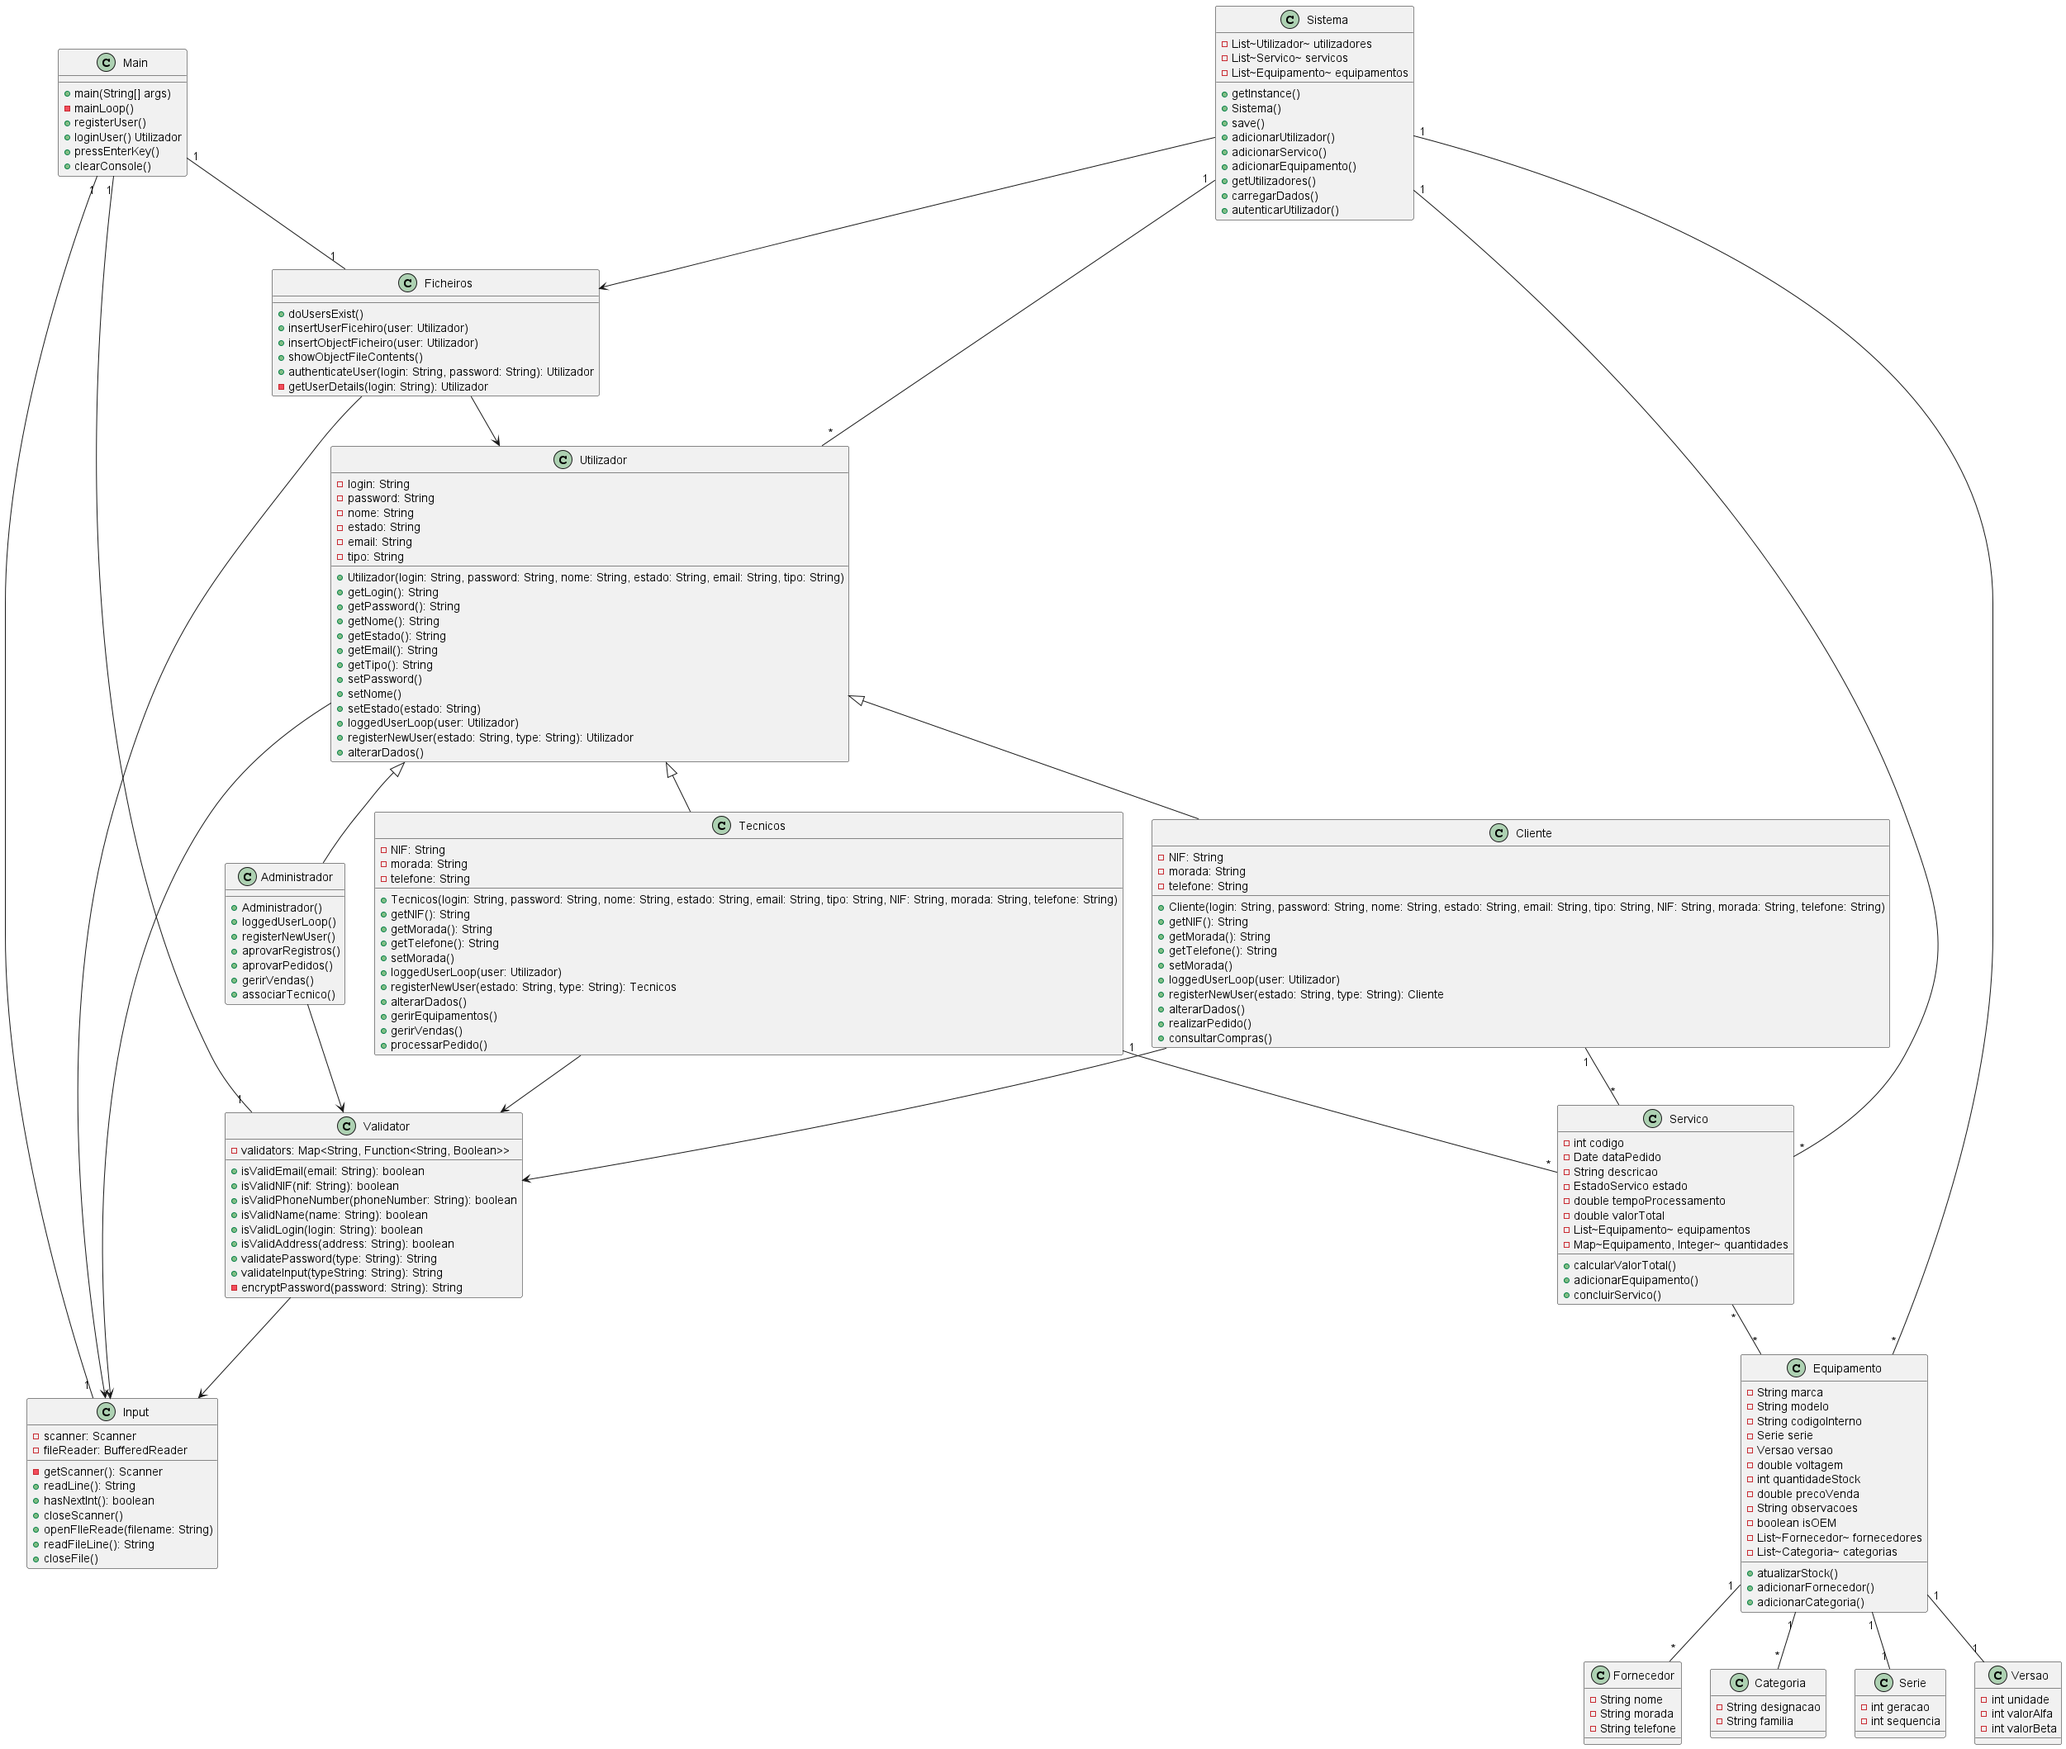
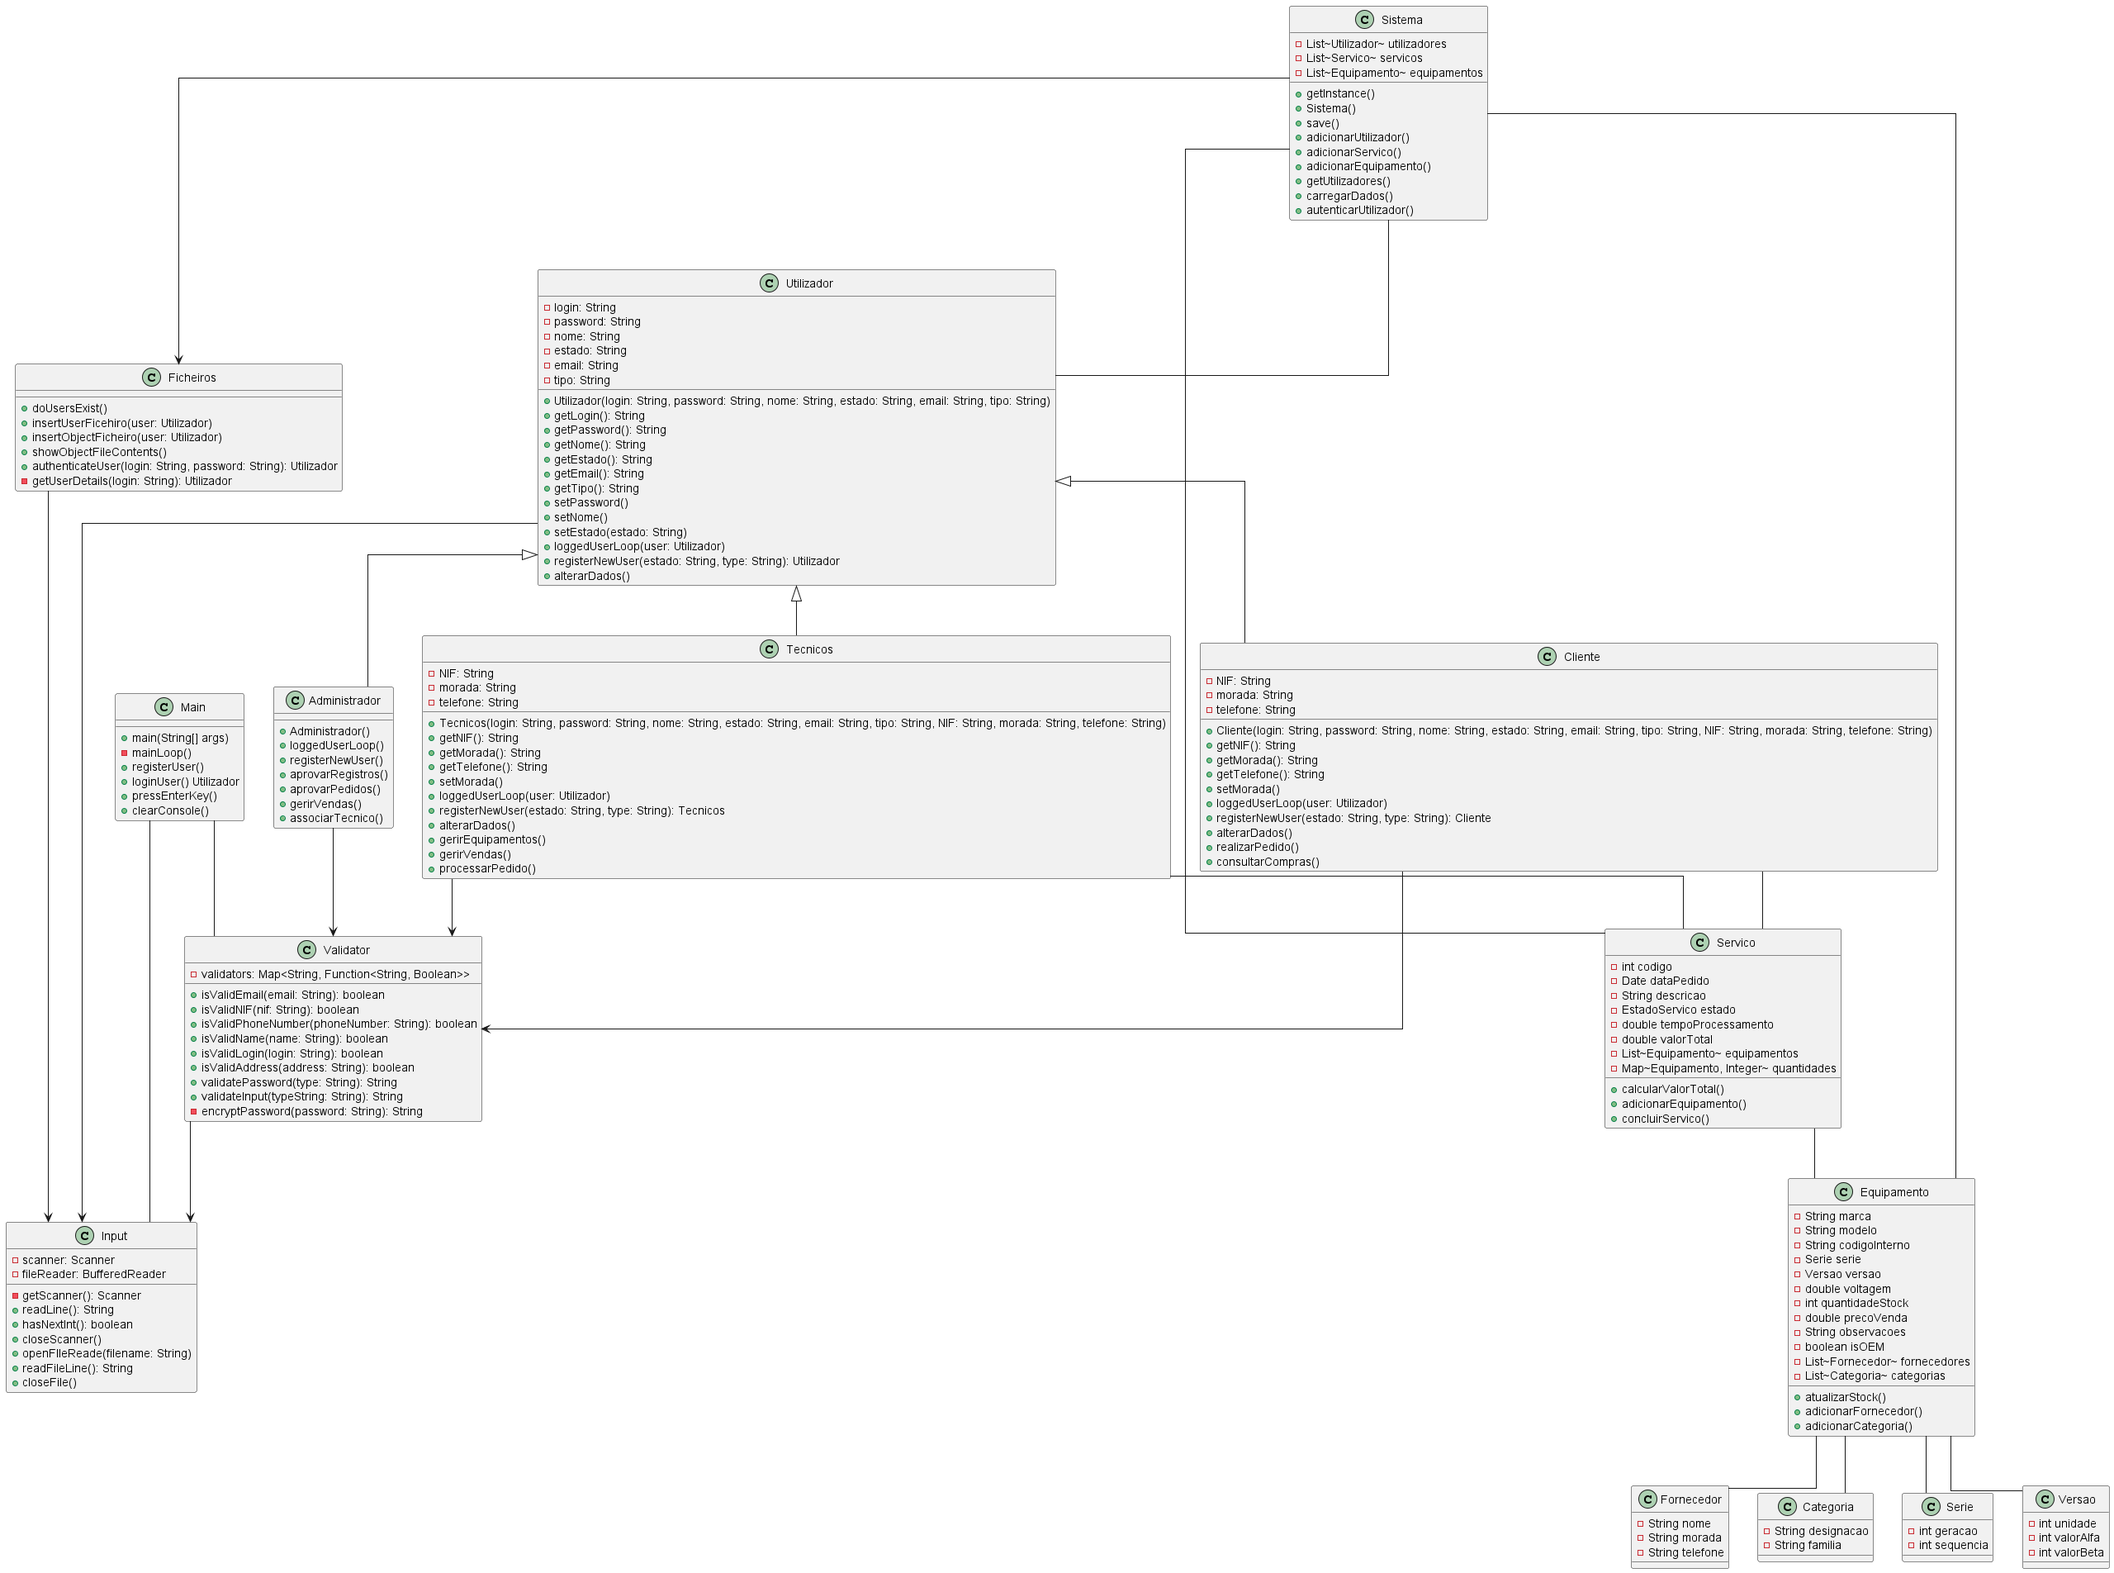
Atualizar README.md com requisitos e referências; ajustar diagrama de classes para melhor visualização das relações entre entidades.

diff --git a/README.md b/README.md
@@ -4,8 +4,8 @@ Neste  projecto, pretende-se a implementação  de uma aplicação completa  em 
 A aplicação tem como objectivo auxiliar o funcionamento de uma loja de informática na gestão de encomendas de equipamentos de hardware
 
 ## Descrição global da aplicação:
-- [] [R1] Permitir os utilizadores registarem-se e autenticarem-se na aplicação.
-- [] [R2] Permitir o acesso à aplicação por 3 tipos de utilizadores: administradores, técnicos e clientes.
+- [ ] [R1] Permitir os utilizadores registarem-se e autenticarem-se na aplicação.
+- [ ] [R2] Permitir o acesso à aplicação por 3 tipos de utilizadores: administradores, técnicos e clientes.
 - [x] [R3] Os utilizadores são caracterizados pelos atributos login, password, nome, estado (activo/inactivo), email e tipo (administradores, técnicos ou clientes).
 - [ ] [R4] Cada utilizador apenas pode alterar a sua própria informação, não podendo alterar ou visualizar dados de outros utilizadores, ou criar utilizadores.
 > [Note] mostrar ao utilizar a sua informação e pedir a informaçao que quer alterar.
@@ -35,32 +35,32 @@ contacto telefónico.
 - [ ] [R20] Um serviço de compra (encomenda), além de ter associado um técnico responsável, inclui a listagem dos produtos incluídos (equipamentos de hardware, podendo definir a quantidade), uma data de realização do pedido, uma descrição, o estado e o tempo que demorou a ser processado o valor total da venda.
 - [ ] [R21] Adicionalmente, cada serviço possui um código identificador único e sequencial.
 - [ ] [R22] O estado do serviço apresenta um dos seguintes valores:
-> [NOTE] a) se o serviço está *submetido* (cliente realizou o pedido, mas ainda não foi aceite pelo administrador); 
-- > b) se a serviço foi *aceite* (administrador aceita o serviço); 
+> [NOTE] a) se o serviço está *submetido* (cliente realizou o pedido, mas ainda não foi aceite pelo administrador);
+- > b) se a serviço foi *aceite* (administrador aceita o serviço);
 - > c) ou se já foi *concluído* (técnico responsável termina o processo).
-- [ ] [R23] Quando um técnico conclui um serviço deve indicar o tempo despendido no processamento do pedido.  
+- [ ] [R23] Quando um técnico conclui um serviço deve indicar o tempo despendido no processamento do pedido.
 O valor total da venda deve ser calculado automaticamente (somatório do custo dos vários equipamentos e respectivas quantidades).
-- [ ] [R25] O código de um equipamento deve ser único. 
+- [ ] [R25] O código de um equipamento deve ser único.
 - [ ] [R26] Cada  equipamento  deve  ter  associado  uma lista até 6 fornecedores, podendo ser introduzido um  novo fornecedor a qualquer momento.
-- [ ] [R27] Cada fornecedor é caracterizado por nome, morada e contacto telefónico. 
-- [ ] [R28] Cada  equipamento  deve  apresentar  uma  lista  até  4  categorias,  podendo  ser  introduzida  uma  nova categoria a qualquer momento.  
-- [ ] [R29] Cada categoria é caracterizada pela sua designação e família (atributos alfanuméricos). 
-- [ ] [R30] Cada série possui uma geração e sequência (atributos numéricos). 
-- [ ] [R31] Cada versão é caracterizada pela unidade, valor alfa e valor beta (atributos numéricos). 
+- [ ] [R27] Cada fornecedor é caracterizado por nome, morada e contacto telefónico.
+- [ ] [R28] Cada  equipamento  deve  apresentar  uma  lista  até  4  categorias,  podendo  ser  introduzida  uma  nova categoria a qualquer momento.
+- [ ] [R29] Cada categoria é caracterizada pela sua designação e família (atributos alfanuméricos).
+- [ ] [R30] Cada série possui uma geração e sequência (atributos numéricos).
+- [ ] [R31] Cada versão é caracterizada pela unidade, valor alfa e valor beta (atributos numéricos).
 - [ ] [R32] É possível alterar a quantidade em stock de um equipamento.
 - [ ] [R33] Sempre que um equipamento é vendido,a quantidade em stock deve ser actualizada.
 
 ## Listagem de Pesquisas
 - [ ] [R36] Deve ser possível ordenar utilizadores por ordem alfabética do nome.
 - [ ] [R37] Deve ser possível ordenar equipamentos por designação.
-- [ ] [R39] Deve ser possível listar todos os utilizadores. 
+- [ ] [R39] Deve ser possível listar todos os utilizadores.
 - [ ] [R40] Deve ser possível listar utilizadores por tipo.
-- [ ] [R41] Deve ser possível listar todos os serviços. 
-- [ ] [R42] Deve ser possível listar todos os serviços associados a um cliente. 
-- [ ] [R43] Deve ser possível listar todos os serviços por estado. 
-- [ ] [R44] Deve ser possível listar serviços com tempo despendido superior a um determinado limite (introduzido pelo utilizador no momento de pesquisa). 
-- [ ] [R45] Deve ser possível listar todos os equipamentos. 
-- [ ] [R46] Deve ser possível listar equipamentos que sejam (ou não) OEM. 
+- [ ] [R41] Deve ser possível listar todos os serviços.
+- [ ] [R42] Deve ser possível listar todos os serviços associados a um cliente.
+- [ ] [R43] Deve ser possível listar todos os serviços por estado.
+- [ ] [R44] Deve ser possível listar serviços com tempo despendido superior a um determinado limite (introduzido pelo utilizador no momento de pesquisa).
+- [ ] [R45] Deve ser possível listar todos os equipamentos.
+- [ ] [R46] Deve ser possível listar equipamentos que sejam (ou não) OEM.
 - [ ] [R47] Deve  ser  possível  listar  equipamentos  com  uma  quantidade  de  stock  abaixo  de  um  determinado  limite 
 (introduzido pelo utilizador no momento de pesquisa).
 - [ ] [R49] Deve ser possível pesquisar utilizadores por login ou nome.
@@ -75,25 +75,46 @@ O valor total da venda deve ser calculado automaticamente (somatório do custo d
 - [ ] [R56] Os administradores podem listar e pesquisar todos os serviços.
 
 ## Manipulação e armazenamento de dados persistente
-- [ ] [R57] O  acesso  à  aplicação  deve  ser  restringido  com  credenciais  (login/password),  informação  que  deverá ser armazenada num ficheiro de texto “credenciais_acesso.txt”. 
-- [ ] [R58] Durante  o encerramento da aplicação, os dados devem ser  automaticamente guardados num ficheiro de objectos “dados_apl.dat”. 
-- [ ] [R59] A aplicação, no arranque, deve automaticamente ler os dados do ficheiro de objectos “dados_apl.dat”,  caso este exista, e informar o utilizador que os dados foram lidos com sucesso. 
+- [ ] [R57] O  acesso  à  aplicação  deve  ser  restringido  com  credenciais  (login/password),  informação  que  deverá ser armazenada num ficheiro de texto “credenciais_acesso.txt”.
+- [ ] [R58] Durante  o encerramento da aplicação, os dados devem ser  automaticamente guardados num ficheiro de objectos “dados_apl.dat”.
+- [ ] [R59] A aplicação, no arranque, deve automaticamente ler os dados do ficheiro de objectos “dados_apl.dat”,  caso este exista, e informar o utilizador que os dados foram lidos com sucesso.
 - Caso o ficheiro esteja indisponível deve surgir uma mensagem a informar a situação
 
 ## Gestão geral da aplicação
-### Interacção com o utilizador 
+### Interacção com o utilizador
 - [ ] [R61] Disponibilizar uma interface em modo texto onde o utilizador possa interagir e controlar a aplicação.
 
 ### Programação Orientada a Objectos
 - [ ] [R65] A aplicação deve estar correctamente  estruturada, tendo em conta o paradigma Orientado a Objectos e recorrendo à linguagem Java.
 - [ ] [R66] Implemente as estruturas de armazenamento necessárias, procurando optimizar os recursos utilizados.
 
-### Validação de dados e notificações 
-- [ ] [R67] Valide todas as leituras de dados do utilizador 
-- (e.g. verifique se os nomes são únicos). 
-- [ ] [R68] Sempre que necessário, apresentar ao utilizador mensagens informativas adequadas.  
+### Validação de dados e notificações
+- [ ] [R67] Valide todas as leituras de dados do utilizador
+- (e.g. verifique se os nomes são únicos).
+- [ ] [R68] Sempre que necessário, apresentar ao utilizador mensagens informativas adequadas.
 - Quando um utilizador realizar uma acção sobre a aplicação, esta deve informar se acção foi realizada com sucesso ou insucesso.
 
 - utilizar a classe sistemas para guardar varios objetos do mesmo tipo dentro depois do ficheiro.
 -Erro ao carregar os dados: src.Sistema; local class incompatible: stream classdesc serialVersionUID = -5152247744269242336, local class serialVersionUID = 3228776543520407799
+
+
+### Referências
+https://www.oracle.com/br/technical-resources/articles/java/serialversionuid.html
+https://pt.stackoverflow.com/questions/408183/o-serialversionuid-de-tem-que-ser-o-mesmo-em-todas-as-classes-serializ%C3%A1veis
+// GraalVM 21 Documentation
+https://www.graalvm.org/jdk21/docs/introduction/
+https://www.graalvm.org/21.3/docs/introduction/
+
+// Java 21 API Specification
+https://docs.oracle.com/en/java/javase/21/docs/api/index.html
+
+// Why BigDecimals and Duration
+https://www.geeksforgeeks.org/bigdecimal-class-java/
+https://www.geeksforgeeks.org/java-time-duration-class-in-java/
+
+// Java I/O (why nio2 and not java.io)
+https://docs.oracle.com/javase/tutorial/essential/io/file.html
+https://dev.java/learn/java-io/reading-writing/buffered-text/
+https://medium.com/@vusal.guliyev.313/writing-files-with-nio-and-io-in-java-bc60b06a413a
+https://www.geeksforgeeks.org/read-and-write-files-using-the-new-i-o-nio-2-api-in-java/
 
